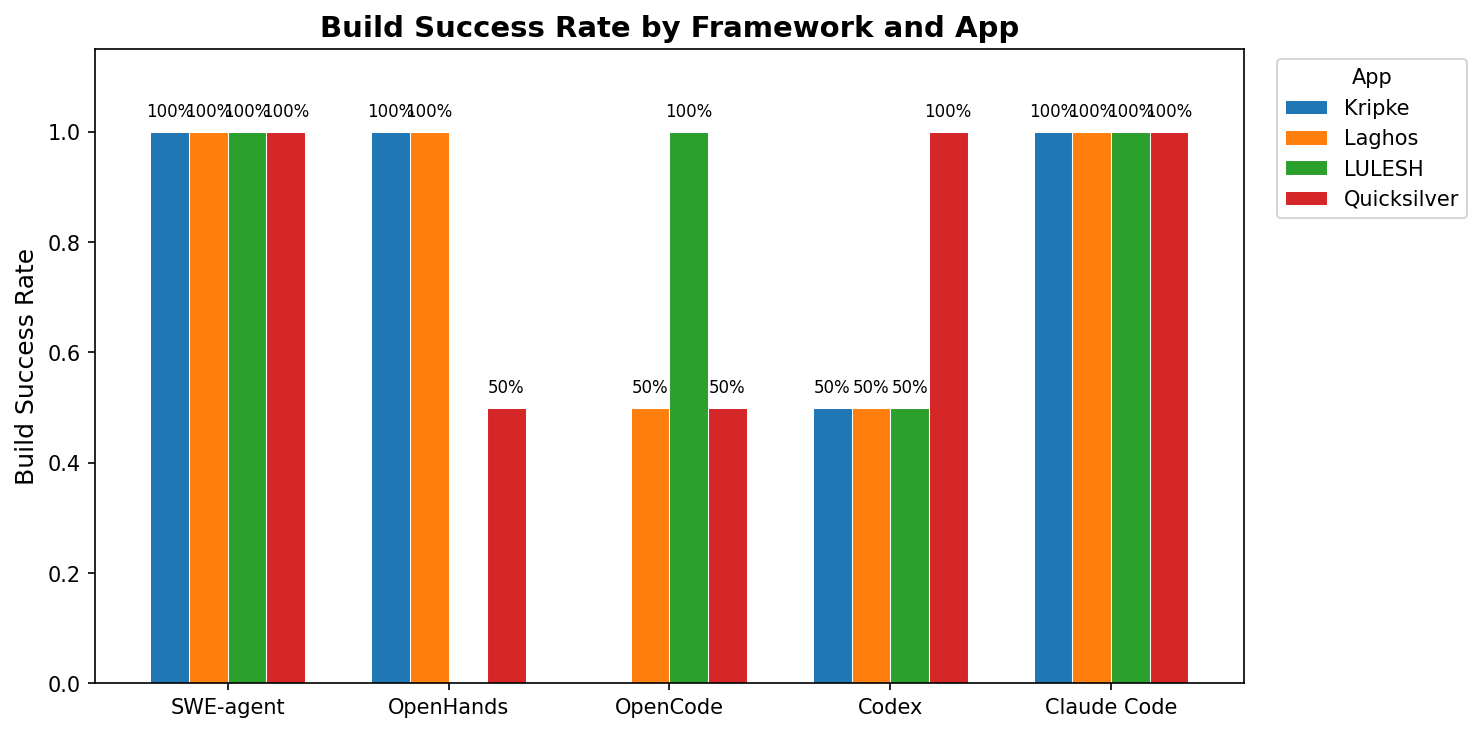
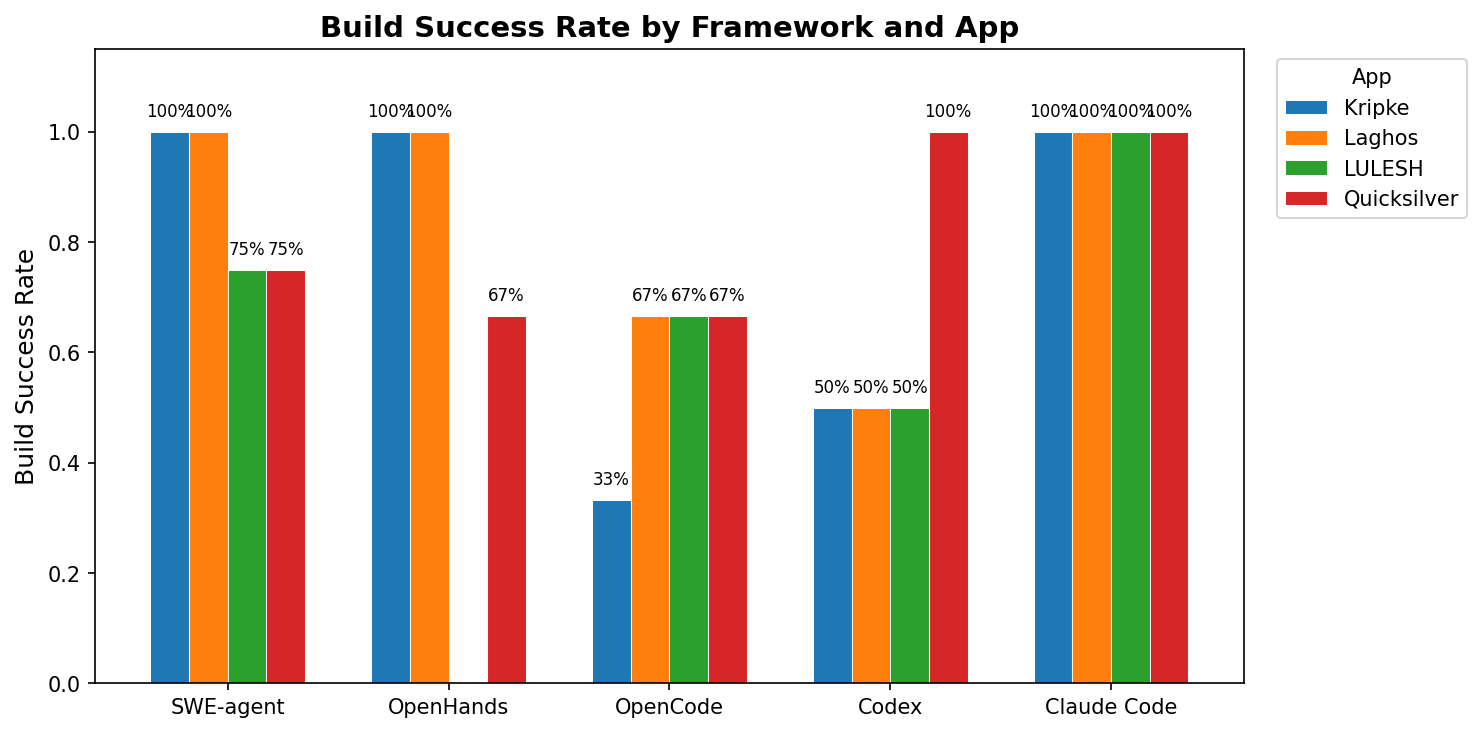
Update results heatmap with gptoss120b data, fix state docs
- Regenerate heatmaps: Claude Code Kripke 15.08x dominates session 41
- Fix HANDOFF.md stale gotcha about CLAUDE.md m2404
- Fix STATE.md branch info to reflect current commit

diff --git a/.planning/HANDOFF.md b/.planning/HANDOFF.md
@@ -78,12 +78,12 @@ grep -n "gpa\|GPA\|base.*mode\|run_agent\|launch.*agent" batch/hpc_benchmark_run
 
 ## Gotchas
 
-- **SLURM account is now m5083** — m2404 exhausted. Updated everywhere.
-- **CLAUDE.md still says m2404 in rule #8** — Wait, actually updated both occurrences. Verify with grep.
+- **SLURM account is now m5083** — m2404 exhausted. Updated in all files (verified with grep).
 - **GPA agent launch bug** — The benchmark runner runs baseline verification for GPA apps but never calls the agent optimization loop. Need to trace the code path.
-- **Profiling tool diversity** — Added tip to prompt.py but need to verify it appears in generated prompts.
+- **Profiling tool diversity** — Added tip to prompt.py; verify it appears in generated prompts on next run.
 
 ## Branch State
 
-- **SWE-agent (dev)**: 25 commits ahead of `origin/dev`, uncommitted m5083 + prompt changes
+- **SWE-agent (dev)**: 26 commits ahead of `origin/dev`
+- **Latest commit**: `7b5836de` — Save session 41 state
 - **Untracked**: `scripts/char_laghos*.{sh,sbatch}`, `xyz.asc`, `output.{out,txt}`

diff --git a/STATE.md b/STATE.md
@@ -35,6 +35,8 @@ Key findings:
 - **SLURM account switch**: `m2404` → `m5083` across 10 files (batch scripts, configs, docs, rules, agents, skills)
 - **Prompt improvement**: Added tip in `PROFILING_DESCRIPTION` encouraging tool diversity when one profiling approach isn't yielding insights
 - **Qwen re-submission**: 4 jobs submitted (49653981-84) with fixed code on m5083
+- **Results summary updated**: Added gptoss120b entries (jobs 49641358-60, 49641364) to `batch_results/results_summary.json`
+- **Heatmaps regenerated**: `analysis/plot_results.py` — new `speedup_heatmap_s41.png` + updated `speedup_heatmap_all.png`
 
 ## Active Experiments
 
@@ -75,9 +77,8 @@ Key findings:
 
 ## Branch State
 
-- **Current branch**: `dev` (25 commits ahead of `origin/dev`)
-- **Latest commit**: `775f5d24` — Save session 40 state
-- **Uncommitted**: m5083 account switch (10 files) + prompt.py profiling tip
+- **Current branch**: `dev` (26 commits ahead of `origin/dev`)
+- **Latest commit**: `7b5836de` — Save session 41 state
 
 ## All Infrastructure Fixes — Complete
 
